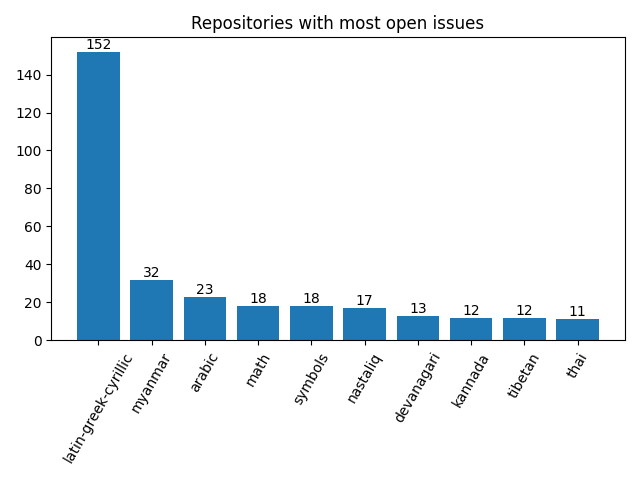
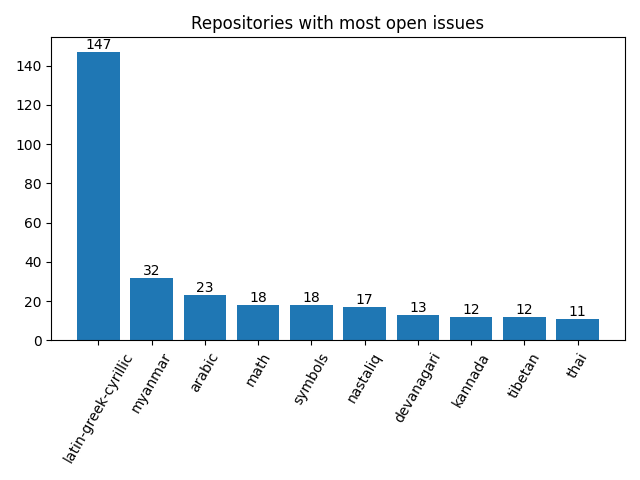
Apply automatic changes

diff --git a/docs/analytics.html b/docs/analytics.html
@@ -69,13 +69,13 @@ td .material-icons { display:inline-flex; vertical-align: top; font-size:1.1rem;
 						</tr>
 						<tr>
 							<td>Jan</td>
-							<td>21</td>
+							<td>19</td>
 							<td>150</td>
 						</tr>
 						<tr>
 							<td>Feb</td>
 							<td>3</td>
-							<td>21</td>
+							<td>48</td>
 						</tr>
 					</table>
 				</div>
@@ -95,7 +95,7 @@ td .material-icons { display:inline-flex; vertical-align: top; font-size:1.1rem;
 							<td>
 								<a href="http://github.com/notofonts/latin-greek-cyrillic">latin-greek-cyrillic</a>
 							</td>
-							<td>152</td>
+							<td>147</td>
 						</tr>
 						<tr>
 							<td>
@@ -166,25 +166,25 @@ td .material-icons { display:inline-flex; vertical-align: top; font-size:1.1rem;
 				<tr>
 					<td>1</td>
 					<td>
-						<a href="http://github.com/notofonts/bamum">bamum</a>,  						<a href="http://github.com/notofonts/deseret">deseret</a>,  						<a href="http://github.com/notofonts/gothic">gothic</a>,  						<a href="http://github.com/notofonts/hanunoo">hanunoo</a>,  						<a href="http://github.com/notofonts/inscriptional-parthian">inscriptional-parthian</a>,  						<a href="http://github.com/notofonts/kharoshthi">kharoshthi</a>,  						<a href="http://github.com/notofonts/khitan-small-script">khitan-small-script</a>,  						<a href="http://github.com/notofonts/khudawadi">khudawadi</a>,  						<a href="http://github.com/notofonts/linear-a">linear-a</a>,  						<a href="http://github.com/notofonts/lisu">lisu</a>,  						<a href="http://github.com/notofonts/mahajani">mahajani</a>,  						<a href="http://github.com/notofonts/masaram-gondi">masaram-gondi</a>,  						<a href="http://github.com/notofonts/meetei-mayek">meetei-mayek</a>,  						<a href="http://github.com/notofonts/mende-kikakui">mende-kikakui</a>,  						<a href="http://github.com/notofonts/miao">miao</a>,  						<a href="http://github.com/notofonts/newa">newa</a>,  						<a href="http://github.com/notofonts/old-italic">old-italic</a>,  						<a href="http://github.com/notofonts/old-persian">old-persian</a>,  						<a href="http://github.com/notofonts/old-uyghur">old-uyghur</a>,  						<a href="http://github.com/notofonts/phoenician">phoenician</a>,  						<a href="http://github.com/notofonts/runic">runic</a>,  						<a href="http://github.com/notofonts/saurashtra">saurashtra</a>,  						<a href="http://github.com/notofonts/sinhala">sinhala</a>,  						<a href="http://github.com/notofonts/sogdian">sogdian</a>,  						<a href="http://github.com/notofonts/tai-le">tai-le</a>,  						<a href="http://github.com/notofonts/tangut">tangut</a>,  						<a href="http://github.com/notofonts/wancho">wancho</a>,  						<a href="http://github.com/notofonts/warang-citi">warang-citi</a> 
+						<a href="http://github.com/notofonts/bamum">bamum</a>,  						<a href="http://github.com/notofonts/deseret">deseret</a>,  						<a href="http://github.com/notofonts/duployan">duployan</a>,  						<a href="http://github.com/notofonts/hanunoo">hanunoo</a>,  						<a href="http://github.com/notofonts/inscriptional-parthian">inscriptional-parthian</a>,  						<a href="http://github.com/notofonts/kharoshthi">kharoshthi</a>,  						<a href="http://github.com/notofonts/khitan-small-script">khitan-small-script</a>,  						<a href="http://github.com/notofonts/khudawadi">khudawadi</a>,  						<a href="http://github.com/notofonts/linear-a">linear-a</a>,  						<a href="http://github.com/notofonts/meetei-mayek">meetei-mayek</a>,  						<a href="http://github.com/notofonts/mende-kikakui">mende-kikakui</a>,  						<a href="http://github.com/notofonts/miao">miao</a>,  						<a href="http://github.com/notofonts/old-italic">old-italic</a>,  						<a href="http://github.com/notofonts/saurashtra">saurashtra</a>,  						<a href="http://github.com/notofonts/tai-le">tai-le</a> 
 					</td>
 				</tr>
 				<tr>
 					<td>2</td>
 					<td>
-						<a href="http://github.com/notofonts/cham">cham</a>,  						<a href="http://github.com/notofonts/chorasmian">chorasmian</a>,  						<a href="http://github.com/notofonts/coptic">coptic</a>,  						<a href="http://github.com/notofonts/elbasan">elbasan</a>,  						<a href="http://github.com/notofonts/elymaic">elymaic</a>,  						<a href="http://github.com/notofonts/georgian">georgian</a>,  						<a href="http://github.com/notofonts/hanifi-rohingya">hanifi-rohingya</a>,  						<a href="http://github.com/notofonts/inscriptional-pahlavi">inscriptional-pahlavi</a>,  						<a href="http://github.com/notofonts/limbu">limbu</a>,  						<a href="http://github.com/notofonts/lydian">lydian</a>,  						<a href="http://github.com/notofonts/marchen">marchen</a>,  						<a href="http://github.com/notofonts/meroitic">meroitic</a>,  						<a href="http://github.com/notofonts/multani">multani</a>,  						<a href="http://github.com/notofonts/nko">nko</a>,  						<a href="http://github.com/notofonts/old-turkic">old-turkic</a>,  						<a href="http://github.com/notofonts/pahawh-hmong">pahawh-hmong</a>,  						<a href="http://github.com/notofonts/phags-pa">phags-pa</a>,  						<a href="http://github.com/notofonts/psalter-pahlavi">psalter-pahlavi</a>,  						<a href="http://github.com/notofonts/samaritan">samaritan</a>,  						<a href="http://github.com/notofonts/tangsa">tangsa</a>,  						<a href="http://github.com/notofonts/thaana">thaana</a>,  						<a href="http://github.com/notofonts/yezidi">yezidi</a>,  						<a href="http://github.com/notofonts/zanabazar-square">zanabazar-square</a> 
+						<a href="http://github.com/notofonts/canadian-aboriginal">canadian-aboriginal</a>,  						<a href="http://github.com/notofonts/cham">cham</a>,  						<a href="http://github.com/notofonts/chorasmian">chorasmian</a>,  						<a href="http://github.com/notofonts/coptic">coptic</a>,  						<a href="http://github.com/notofonts/elbasan">elbasan</a>,  						<a href="http://github.com/notofonts/elymaic">elymaic</a>,  						<a href="http://github.com/notofonts/georgian">georgian</a>,  						<a href="http://github.com/notofonts/hanifi-rohingya">hanifi-rohingya</a>,  						<a href="http://github.com/notofonts/inscriptional-pahlavi">inscriptional-pahlavi</a>,  						<a href="http://github.com/notofonts/limbu">limbu</a>,  						<a href="http://github.com/notofonts/lydian">lydian</a>,  						<a href="http://github.com/notofonts/marchen">marchen</a>,  						<a href="http://github.com/notofonts/meroitic">meroitic</a>,  						<a href="http://github.com/notofonts/multani">multani</a>,  						<a href="http://github.com/notofonts/nko">nko</a>,  						<a href="http://github.com/notofonts/old-turkic">old-turkic</a>,  						<a href="http://github.com/notofonts/pahawh-hmong">pahawh-hmong</a>,  						<a href="http://github.com/notofonts/phags-pa">phags-pa</a>,  						<a href="http://github.com/notofonts/psalter-pahlavi">psalter-pahlavi</a>,  						<a href="http://github.com/notofonts/tangsa">tangsa</a>,  						<a href="http://github.com/notofonts/thaana">thaana</a>,  						<a href="http://github.com/notofonts/yezidi">yezidi</a>,  						<a href="http://github.com/notofonts/zanabazar-square">zanabazar-square</a> 
 					</td>
 				</tr>
 				<tr>
 					<td>3</td>
 					<td>
-						<a href="http://github.com/notofonts/duployan">duployan</a>,  						<a href="http://github.com/notofonts/ethiopic">ethiopic</a>,  						<a href="http://github.com/notofonts/glagolitic">glagolitic</a>,  						<a href="http://github.com/notofonts/gunjala-gondi">gunjala-gondi</a>,  						<a href="http://github.com/notofonts/kawi">kawi</a>,  						<a href="http://github.com/notofonts/mandaic">mandaic</a>,  						<a href="http://github.com/notofonts/nyiakeng-puachue-hmong">nyiakeng-puachue-hmong</a>,  						<a href="http://github.com/notofonts/old-hungarian">old-hungarian</a>,  						<a href="http://github.com/notofonts/old-hungarian-ui">old-hungarian-ui</a>,  						<a href="http://github.com/notofonts/old-sogdian">old-sogdian</a>,  						<a href="http://github.com/notofonts/rejang">rejang</a>,  						<a href="http://github.com/notofonts/sharada">sharada</a>,  						<a href="http://github.com/notofonts/soyombo">soyombo</a>,  						<a href="http://github.com/notofonts/tagalog">tagalog</a>,  						<a href="http://github.com/notofonts/tai-viet">tai-viet</a> 
+						<a href="http://github.com/notofonts/ethiopic">ethiopic</a>,  						<a href="http://github.com/notofonts/glagolitic">glagolitic</a>,  						<a href="http://github.com/notofonts/gunjala-gondi">gunjala-gondi</a>,  						<a href="http://github.com/notofonts/kawi">kawi</a>,  						<a href="http://github.com/notofonts/mandaic">mandaic</a>,  						<a href="http://github.com/notofonts/nyiakeng-puachue-hmong">nyiakeng-puachue-hmong</a>,  						<a href="http://github.com/notofonts/old-hungarian">old-hungarian</a>,  						<a href="http://github.com/notofonts/old-sogdian">old-sogdian</a>,  						<a href="http://github.com/notofonts/rejang">rejang</a>,  						<a href="http://github.com/notofonts/sharada">sharada</a>,  						<a href="http://github.com/notofonts/soyombo">soyombo</a>,  						<a href="http://github.com/notofonts/tagalog">tagalog</a>,  						<a href="http://github.com/notofonts/tai-viet">tai-viet</a> 
 					</td>
 				</tr>
 				<tr>
 					<td>4</td>
 					<td>
-						<a href="http://github.com/notofonts/ahom">ahom</a>,  						<a href="http://github.com/notofonts/armenian">armenian</a>,  						<a href="http://github.com/notofonts/canadian-aboriginal">canadian-aboriginal</a>,  						<a href="http://github.com/notofonts/caucasian-albanian">caucasian-albanian</a>,  						<a href="http://github.com/notofonts/dogra">dogra</a>,  						<a href="http://github.com/notofonts/grantha">grantha</a>,  						<a href="http://github.com/notofonts/lao">lao</a>,  						<a href="http://github.com/notofonts/manichaean">manichaean</a>,  						<a href="http://github.com/notofonts/nandinagari">nandinagari</a>,  						<a href="http://github.com/notofonts/nushu">nushu</a>,  						<a href="http://github.com/notofonts/oriya">oriya</a>,  						<a href="http://github.com/notofonts/sundanese">sundanese</a>,  						<a href="http://github.com/notofonts/tai-tham">tai-tham</a>,  						<a href="http://github.com/notofonts/takri">takri</a> 
+						<a href="http://github.com/notofonts/ahom">ahom</a>,  						<a href="http://github.com/notofonts/armenian">armenian</a>,  						<a href="http://github.com/notofonts/caucasian-albanian">caucasian-albanian</a>,  						<a href="http://github.com/notofonts/dogra">dogra</a>,  						<a href="http://github.com/notofonts/grantha">grantha</a>,  						<a href="http://github.com/notofonts/lao">lao</a>,  						<a href="http://github.com/notofonts/manichaean">manichaean</a>,  						<a href="http://github.com/notofonts/nandinagari">nandinagari</a>,  						<a href="http://github.com/notofonts/nushu">nushu</a>,  						<a href="http://github.com/notofonts/old-hungarian-ui">old-hungarian-ui</a>,  						<a href="http://github.com/notofonts/oriya">oriya</a>,  						<a href="http://github.com/notofonts/sundanese">sundanese</a>,  						<a href="http://github.com/notofonts/tai-tham">tai-tham</a>,  						<a href="http://github.com/notofonts/takri">takri</a> 
 					</td>
 				</tr>
 				<tr>
@@ -235,7 +235,7 @@ td .material-icons { display:inline-flex; vertical-align: top; font-size:1.1rem;
 						<tr>
 							<td>1</td>
 							<td>
-									<a href="http://github.com/notofonts/latin-greek-cyrillic">latin-greek-cyrillic</a>: 152, 
+									<a href="http://github.com/notofonts/latin-greek-cyrillic">latin-greek-cyrillic</a>: 147, 
 
 									<a href="http://github.com/notofonts/arabic">arabic</a>: 23, 
 
@@ -261,9 +261,7 @@ td .material-icons { display:inline-flex; vertical-align: top; font-size:1.1rem;
 
 									<a href="http://github.com/notofonts/armenian">armenian</a>: 4, 
 
-									<a href="http://github.com/notofonts/oriya">oriya</a>: 4, 
-
-									<a href="http://github.com/notofonts/sinhala">sinhala</a>: 1
+									<a href="http://github.com/notofonts/oriya">oriya</a>: 4
 							</td>
 						</tr>
 						<tr>
@@ -283,9 +281,7 @@ td .material-icons { display:inline-flex; vertical-align: top; font-size:1.1rem;
 
 									<a href="http://github.com/notofonts/georgian">georgian</a>: 2, 
 
-									<a href="http://github.com/notofonts/limbu">limbu</a>: 2, 
-
-									<a href="http://github.com/notofonts/lisu">lisu</a>: 1
+									<a href="http://github.com/notofonts/limbu">limbu</a>: 2
 							</td>
 						</tr>
 						<tr>
@@ -317,8 +313,6 @@ td .material-icons { display:inline-flex; vertical-align: top; font-size:1.1rem;
 
 									<a href="http://github.com/notofonts/music">music</a>: 5, 
 
-									<a href="http://github.com/notofonts/canadian-aboriginal">canadian-aboriginal</a>: 4, 
-
 									<a href="http://github.com/notofonts/lao">lao</a>: 4, 
 
 									<a href="http://github.com/notofonts/sundanese">sundanese</a>: 4, 
@@ -326,8 +320,6 @@ td .material-icons { display:inline-flex; vertical-align: top; font-size:1.1rem;
 									<a href="http://github.com/notofonts/tai-tham">tai-tham</a>: 4, 
 
 									<a href="http://github.com/notofonts/takri">takri</a>: 4, 
-
-									<a href="http://github.com/notofonts/duployan">duployan</a>: 3, 
 
 									<a href="http://github.com/notofonts/gunjala-gondi">gunjala-gondi</a>: 3, 
 
@@ -340,6 +332,8 @@ td .material-icons { display:inline-flex; vertical-align: top; font-size:1.1rem;
 									<a href="http://github.com/notofonts/tagalog">tagalog</a>: 3, 
 
 									<a href="http://github.com/notofonts/tai-viet">tai-viet</a>: 3, 
+
+									<a href="http://github.com/notofonts/canadian-aboriginal">canadian-aboriginal</a>: 2, 
 
 									<a href="http://github.com/notofonts/cham">cham</a>: 2, 
 
@@ -361,9 +355,9 @@ td .material-icons { display:inline-flex; vertical-align: top; font-size:1.1rem;
 
 									<a href="http://github.com/notofonts/bamum">bamum</a>: 1, 
 
-									<a href="http://github.com/notofonts/hanunoo">hanunoo</a>: 1, 
+									<a href="http://github.com/notofonts/duployan">duployan</a>: 1, 
 
-									<a href="http://github.com/notofonts/masaram-gondi">masaram-gondi</a>: 1, 
+									<a href="http://github.com/notofonts/hanunoo">hanunoo</a>: 1, 
 
 									<a href="http://github.com/notofonts/meetei-mayek">meetei-mayek</a>: 1, 
 
@@ -371,15 +365,9 @@ td .material-icons { display:inline-flex; vertical-align: top; font-size:1.1rem;
 
 									<a href="http://github.com/notofonts/miao">miao</a>: 1, 
 
-									<a href="http://github.com/notofonts/newa">newa</a>: 1, 
-
 									<a href="http://github.com/notofonts/saurashtra">saurashtra</a>: 1, 
 
-									<a href="http://github.com/notofonts/tai-le">tai-le</a>: 1, 
-
-									<a href="http://github.com/notofonts/wancho">wancho</a>: 1, 
-
-									<a href="http://github.com/notofonts/warang-citi">warang-citi</a>: 1
+									<a href="http://github.com/notofonts/tai-le">tai-le</a>: 1
 							</td>
 						</tr>
 						<tr>
@@ -403,6 +391,8 @@ td .material-icons { display:inline-flex; vertical-align: top; font-size:1.1rem;
 
 									<a href="http://github.com/notofonts/nushu">nushu</a>: 4, 
 
+									<a href="http://github.com/notofonts/old-hungarian-ui">old-hungarian-ui</a>: 4, 
+
 									<a href="http://github.com/notofonts/glagolitic">glagolitic</a>: 3, 
 
 									<a href="http://github.com/notofonts/kawi">kawi</a>: 3, 
@@ -410,8 +400,6 @@ td .material-icons { display:inline-flex; vertical-align: top; font-size:1.1rem;
 									<a href="http://github.com/notofonts/mandaic">mandaic</a>: 3, 
 
 									<a href="http://github.com/notofonts/old-hungarian">old-hungarian</a>: 3, 
-
-									<a href="http://github.com/notofonts/old-hungarian-ui">old-hungarian-ui</a>: 3, 
 
 									<a href="http://github.com/notofonts/soyombo">soyombo</a>: 3, 
 
@@ -423,17 +411,9 @@ td .material-icons { display:inline-flex; vertical-align: top; font-size:1.1rem;
 
 									<a href="http://github.com/notofonts/deseret">deseret</a>: 1, 
 
-									<a href="http://github.com/notofonts/gothic">gothic</a>: 1, 
-
 									<a href="http://github.com/notofonts/khudawadi">khudawadi</a>: 1, 
 
-									<a href="http://github.com/notofonts/linear-a">linear-a</a>: 1, 
-
-									<a href="http://github.com/notofonts/mahajani">mahajani</a>: 1, 
-
-									<a href="http://github.com/notofonts/phoenician">phoenician</a>: 1, 
-
-									<a href="http://github.com/notofonts/runic">runic</a>: 1
+									<a href="http://github.com/notofonts/linear-a">linear-a</a>: 1
 							</td>
 						</tr>
 						<tr>
@@ -465,23 +445,13 @@ td .material-icons { display:inline-flex; vertical-align: top; font-size:1.1rem;
 
 									<a href="http://github.com/notofonts/psalter-pahlavi">psalter-pahlavi</a>: 2, 
 
-									<a href="http://github.com/notofonts/samaritan">samaritan</a>: 2, 
-
 									<a href="http://github.com/notofonts/inscriptional-parthian">inscriptional-parthian</a>: 1, 
 
 									<a href="http://github.com/notofonts/kharoshthi">kharoshthi</a>: 1, 
 
 									<a href="http://github.com/notofonts/khitan-small-script">khitan-small-script</a>: 1, 
 
-									<a href="http://github.com/notofonts/old-italic">old-italic</a>: 1, 
-
-									<a href="http://github.com/notofonts/old-persian">old-persian</a>: 1, 
-
-									<a href="http://github.com/notofonts/old-uyghur">old-uyghur</a>: 1, 
-
-									<a href="http://github.com/notofonts/sogdian">sogdian</a>: 1, 
-
-									<a href="http://github.com/notofonts/tangut">tangut</a>: 1
+									<a href="http://github.com/notofonts/old-italic">old-italic</a>: 1
 							</td>
 						</tr>
 					</table>
